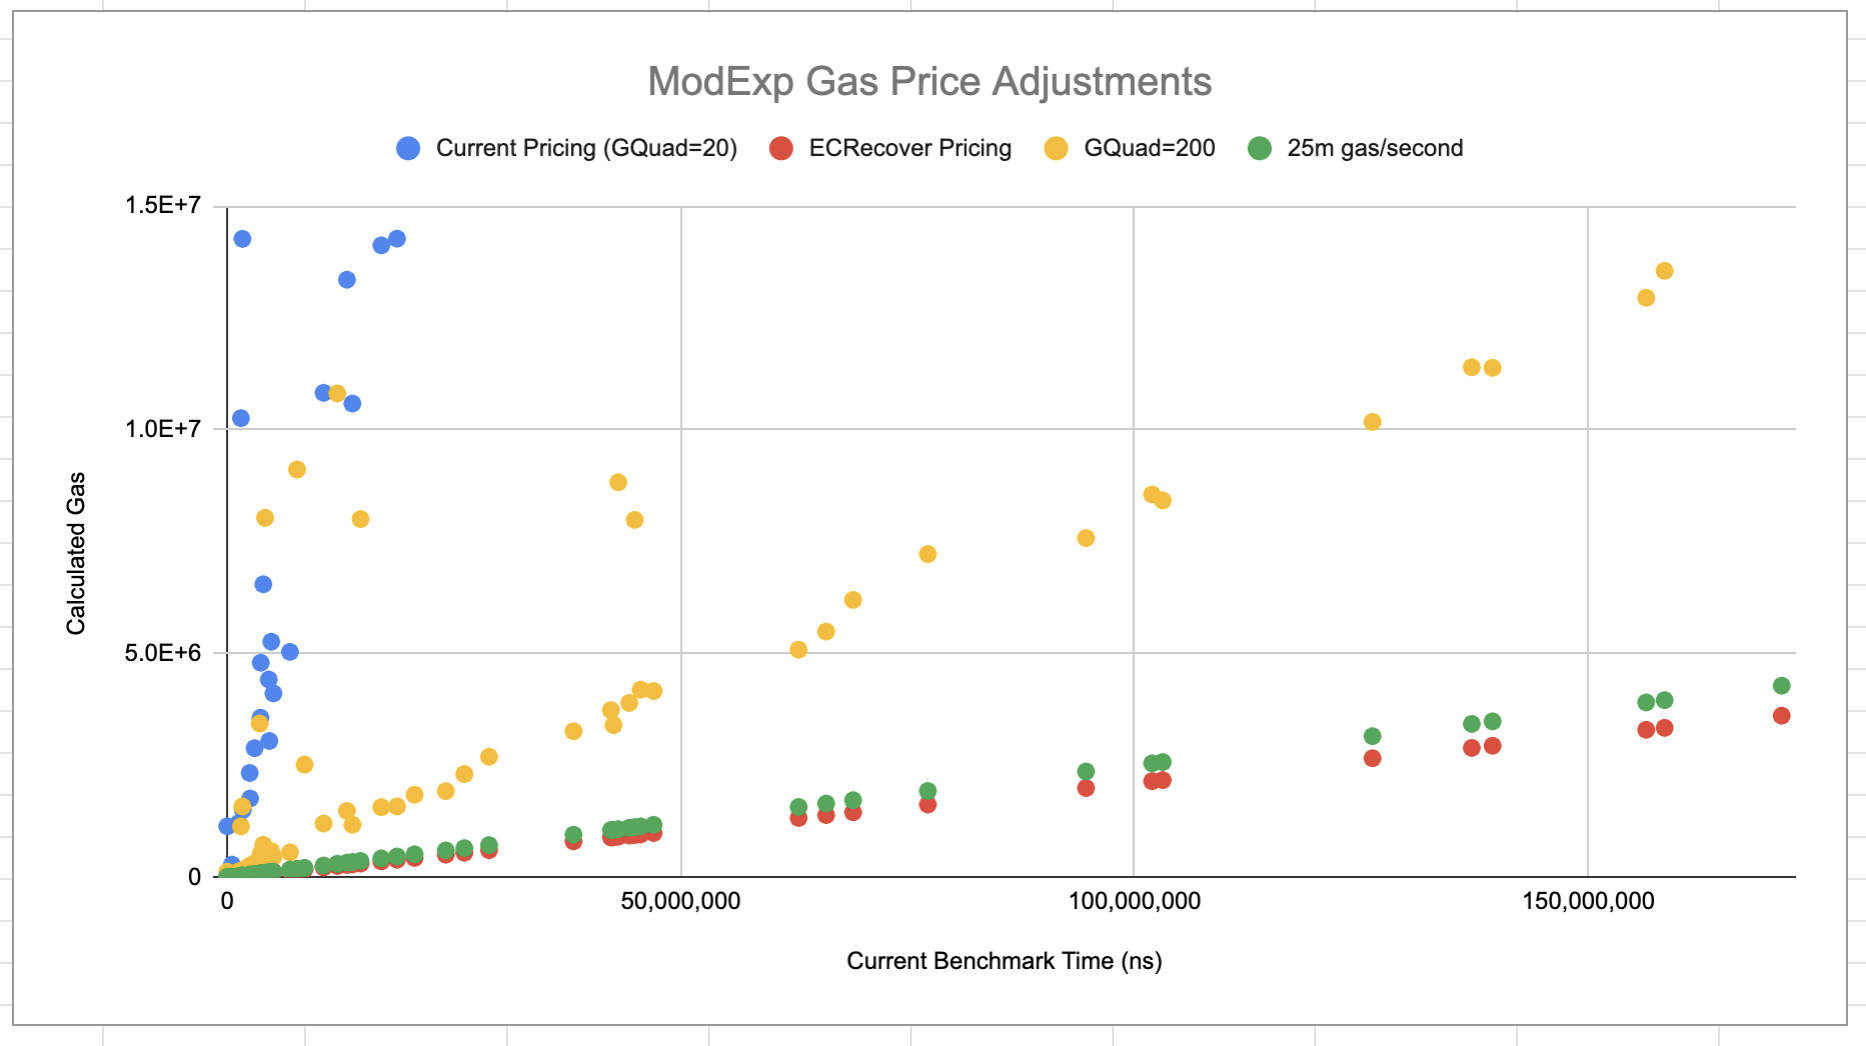
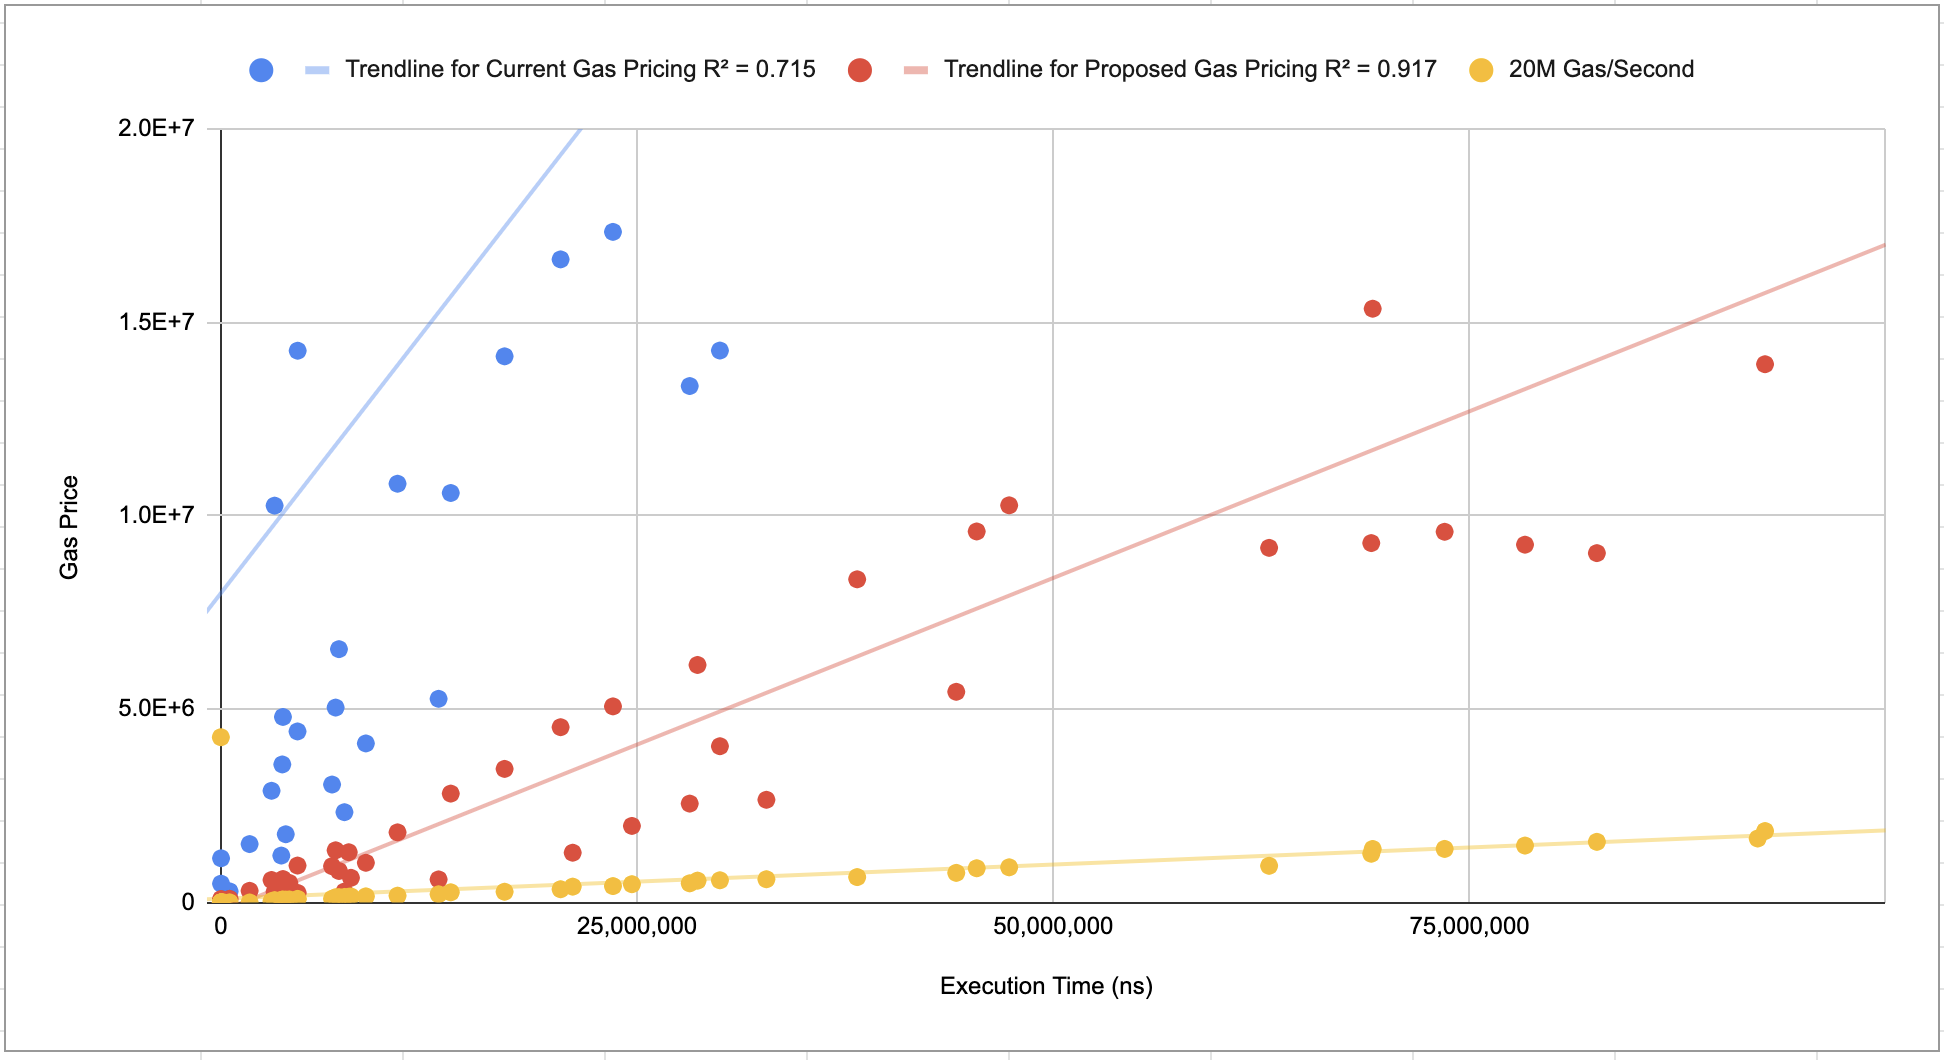
Updated EIP-2565 (#2761)
Updating EIP-2565 to incorporate feedback from ACD and client implementation teams. Updating status to 'Last Call' as this EIP is now EFI per ACD discussion.

diff --git a/EIPS/eip-2565.md b/EIPS/eip-2565.md
@@ -3,7 +3,8 @@ eip: 2565
 title: Repricing of the EIP-198 ModExp precompile
 author: Kelly Olson (@ineffectualproperty), Sean Gulley (@sean-sn), Simon Peffers (@simonatsn), Justin Drake (@justindrake), Dankrad Feist (@dankrad)
 discussions-to: https://ethereum-magicians.org/t/big-integer-modular-exponentiation-eip-198-gas-cost/4150
-status: Draft
+status: Last Call
+review-period-end: 2020-07-31
 type: Standards Track
 category: Core
 created: 2020-03-20
@@ -16,23 +17,20 @@ The [EIP-198](https://eips.ethereum.org/EIPS/eip-198) ‘big integer modular exp
 ## Abstract
 After benchmarking the ModExp precompile, we discovered that it is ‘overpriced’ relative to other precompiles. We also discovered that the current gas pricing formula could be improved to better estimate the computational complexity of various ModExp input variables. To improve the gas cost pricing for this precompile the following options are available:
 
-1. Changing the value of the `GQUADDIVISOR` parameter in the ModExp pricing formula to bring its costs more in-line with other precompiles
-2. Modifying the gas pricing formula to better reflect the computational complexity of ModExp operations
+1. Modifying the gas pricing formula to better reflect the computational complexity of ModExp operations
+2. Changing the value of the `GQUADDIVISOR` parameter in the ModExp pricing formula to bring its costs more in-line with other precompiles
 3. Improving the underlying libraries beneath the ModExp Precompile
 4. Any combination of (1), (2), and (3)
 
-We recommend **Option (1)** which provides a large practical improvement to gas estimation while keeping implementation complexity low. Options (2) and (3) could also be implemented and would further improve the gas pricing for a broader range of use cases. Additional data can be provided for options (2) and (3) as desired.
+We recommend **Option (1) and (2)** which provides a large practical improvement to gas estimation while keeping implementation complexity low. Option (3) can be implemented at a later point to improve the gas pricing even further.
 
 ## Motivation
 Modular exponentiation is a foundational arithmetic operation for many cryptographic functions including signatures, VDFs, SNARKs, accumulators, and more. Unfortunately, the ModExp precompile is currently over-priced, making these operations inefficient and expensive. By reducing the cost of this precompile, these cryptographic functions become more practical, enabling improved security, stronger randomness (VDFs), and more.
 
 ## Specification
-The current gas pricing formula is defined in EIP-198. This formula divides a ‘computational complexity’ function by a ‘gas conversion’ parameter called `GQUADDIVISOR` to arrive at a gas cost. 
+The current gas pricing formula is defined in EIP-198. This formula divides a ‘computational complexity’ function by a ‘gas conversion’ parameter called `GQUADDIVISOR` to arrive at a gas cost: `floor(mult_complexity(x)/GQUADDIVISOR)`
 
-### **Recommended** Option (1): Change value of GQUADDIVISOR
-`GQUADDIVISOR` is set to ‘20’ per EIP-198. We recommend changing the value of this parameter to ‘200’.
-
-### Option (2): Modify ‘computational complexity’ function 
+### **Recommended** Option (1): Modify ‘computational complexity’ function and add minimum gas cost
 The current complexity function, as defined in EIP-198 is as follow:
 
 ```
@@ -51,28 +49,31 @@ def mult_complexity(x):
 ```
 where is `x` is `max(length_of_MODULUS, length_of_BASE)`. `x` is divided by 64 to account for the number of limbs in multiprecision arithmetic.
 
-You can find comparison of these two complexity fomulas for the current test vector as the following [spreadsheet](https://docs.google.com/spreadsheets/d/1Fq3d3wUjGN0R_FX-VPj7TKhCK33ac--P4QXB9MPQ8iw/edit?usp=sharing).
+You can find comparison of these two complexity fomulas for the current test vectors as the following [spreadsheet](https://docs.google.com/spreadsheets/d/1-xBzA-2-l2ZQDQ1eh3XXGZjcRSBQ_Hnp7NubXpbiSUY/edit?usp=sharing).
+
+In addition to modifying the `mult_complexity` formula as above, we also recommend wrapping the entire function with a minimum gas price of 100 to ensure that a minimum amount of gas is used when the precompile is called e.g. `max(100,floor(mult_complexity(x)/GQUADDIVISOR))`
+
+### **Recommended** Option (2): Change value of GQUADDIVISOR
+`GQUADDIVISOR` is set to `20` per EIP-198. We recommend changing the value of this parameter to `3` to account for the changes in the recommended 'computational complexity' formula above.
 
 ### Option (3): Replace libraries used by ModExp precompiles
 ModExp benchmarks for different libraries can be found at the following [spreadsheet](https://docs.google.com/spreadsheets/d/1Fq3d3wUjGN0R_FX-VPj7TKhCK33ac--P4QXB9MPQ8iw/edit?usp=sharing).
 
-While alternative libraries can provide improved performance, this option is not recommended at this time.
+While alternative libraries can provide improved a further 2-5x improvement in performance, this option is not recommended at this time.
 
 ## Rationale
 
-### **Recommended** Option (1): Change value of GQUADDIVISOR:
-Changing the value of this parameter from 20 to 200 will reduce the gas cost of this precompile by a factor of 10 with minimal implementation changes. With this change, the cost of the ModExp precompile will have a higher cost (gas/second) than other precompiles such as ECRecover.
+### **Recommended** Option (1): Modify ‘computational complexity’ formula
+A comparison of the current ‘complexity’ function and the proposed function described above can be found at the following [spreadsheet](https://docs.google.com/spreadsheets/d/1-xBzA-2-l2ZQDQ1eh3XXGZjcRSBQ_Hnp7NubXpbiSUY/edit?usp=sharing).
 
-![Option 1 Graph](../assets/eip-2565/GQuad_Change.png)
-
-### Option (2): Modify ‘computational complexity’ formula
-An alternative ‘complexity’ function can be found at the following [spreadsheet](https://docs.google.com/spreadsheets/d/1Fq3d3wUjGN0R_FX-VPj7TKhCK33ac--P4QXB9MPQ8iw/edit?usp=sharing).
-
-![Option 2 Graph](../assets/eip-2565/Complexity_Regression.png)
+![Option 1 Graph](../assets/eip-2565/Complexity_Regression.png)
 
 The new complexity function has a better fit vs. the execution time when compared to the current complexity function. This better fit is because the new complexity formula accounts for the use of binary exponentiation algorithms that are used by ‘bigint’ libraries for large exponents. You may also notice the regression line of the proposed complexity function bisects the test vector data points. This is because the run time varies depending on if the modulus is even or odd.
 
-While modifying the computational complexity formula can improve gas estimation at a medium implementation cost, we do not recommend it at this time.
+### **Recommended** Option (2): Change value of GQUADDIVISOR:
+After changing the 'computational complexity' formula it is necessary to change `QGUADDIVSOR` to bring the gas costs inline with their runtime. We recommend changing the value from '20' to '3'. With this change, the cost of the ModExp precompile will have a higher cost (gas/second) than other precompiles such as ECRecover.
+
+![Option 2 Graph](../assets/eip-2565/GQuad_Change.png)
 
 ### Option (3): Improving the ModExp precompile implementations
 
@@ -84,7 +85,7 @@ Replacing the underlying library can improve the performance of the ModExp preco
 There are no changes to the underlying interface or arithmetic algorithms, so the existing test vectors can be reused. Gas values will need to be updated in the existing unit tests based on the final pricing decided in this EIP. This will ensure that the updated gas calculations are done correctly.
 
 ## Security Considerations
-The biggest security consideration for this EIP is creating a potential DOS vector by making ModExp operations too inexpensive relative to their computation time. Once a gas pricing formula is finalized in this EIP, we will run an analysis to ensure that a DOS vector is not created. This can be done by assuming all the gas in the block is used for this pre-compile for the worst-case input values. 
+The biggest security consideration for this EIP is creating a potential DoS vector by making ModExp operations too inexpensive relative to their computation time.
 
 ## References
 [EIP-198](https://eips.ethereum.org/EIPS/eip-198) 
